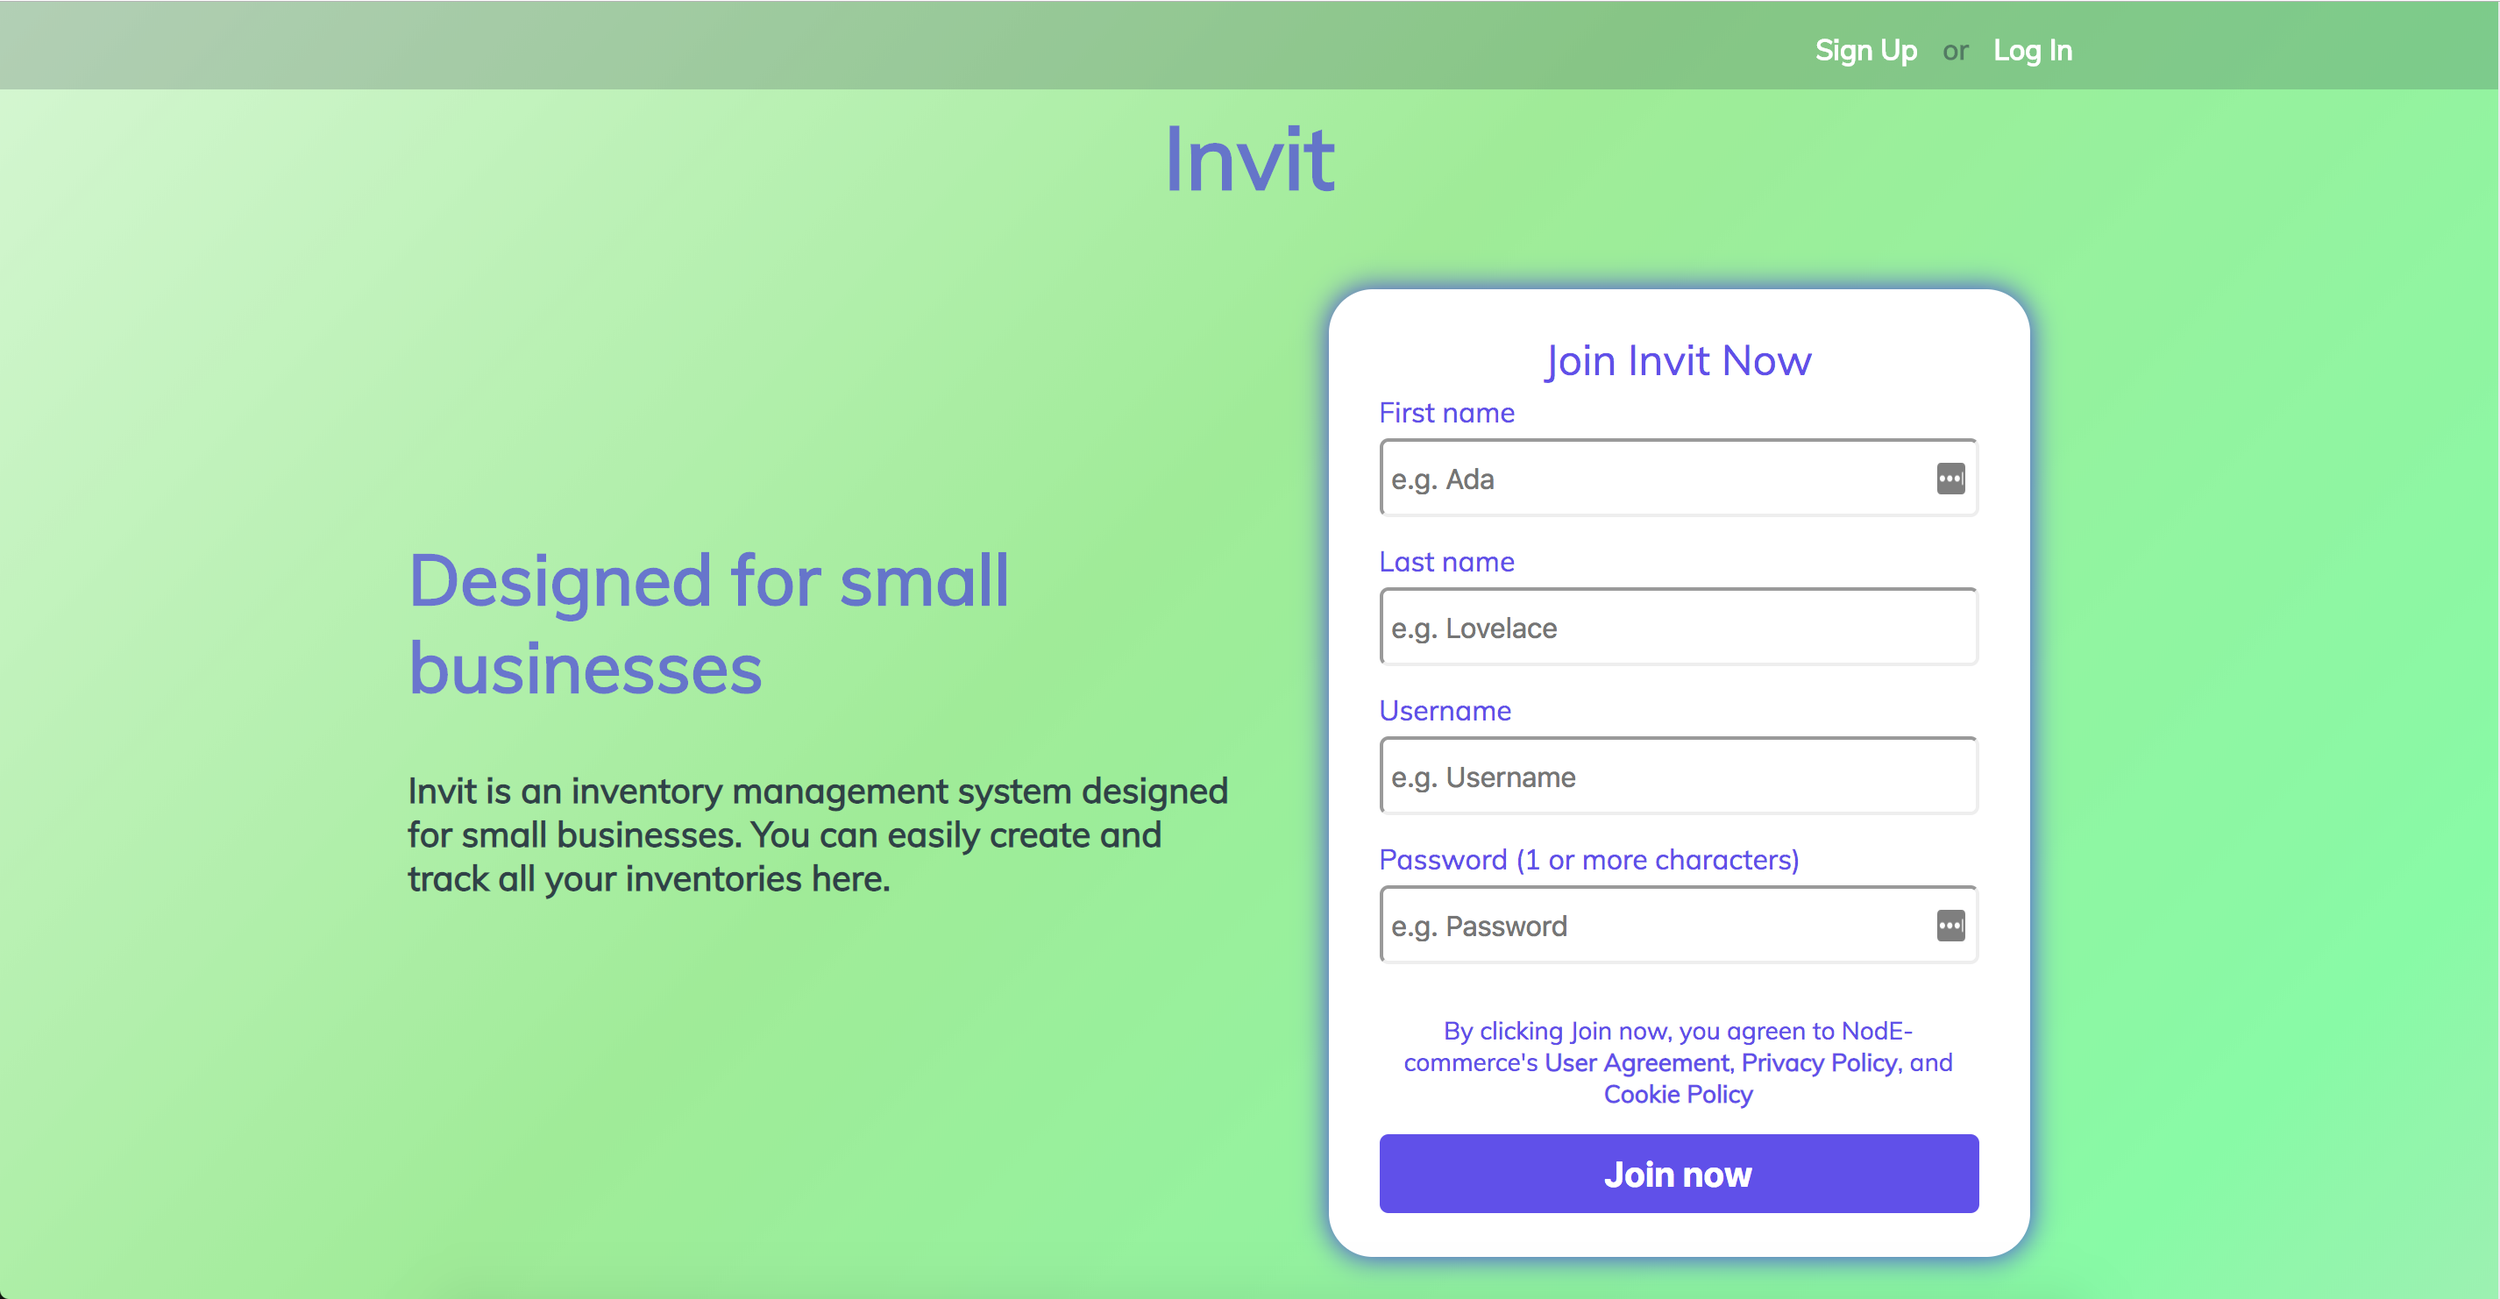
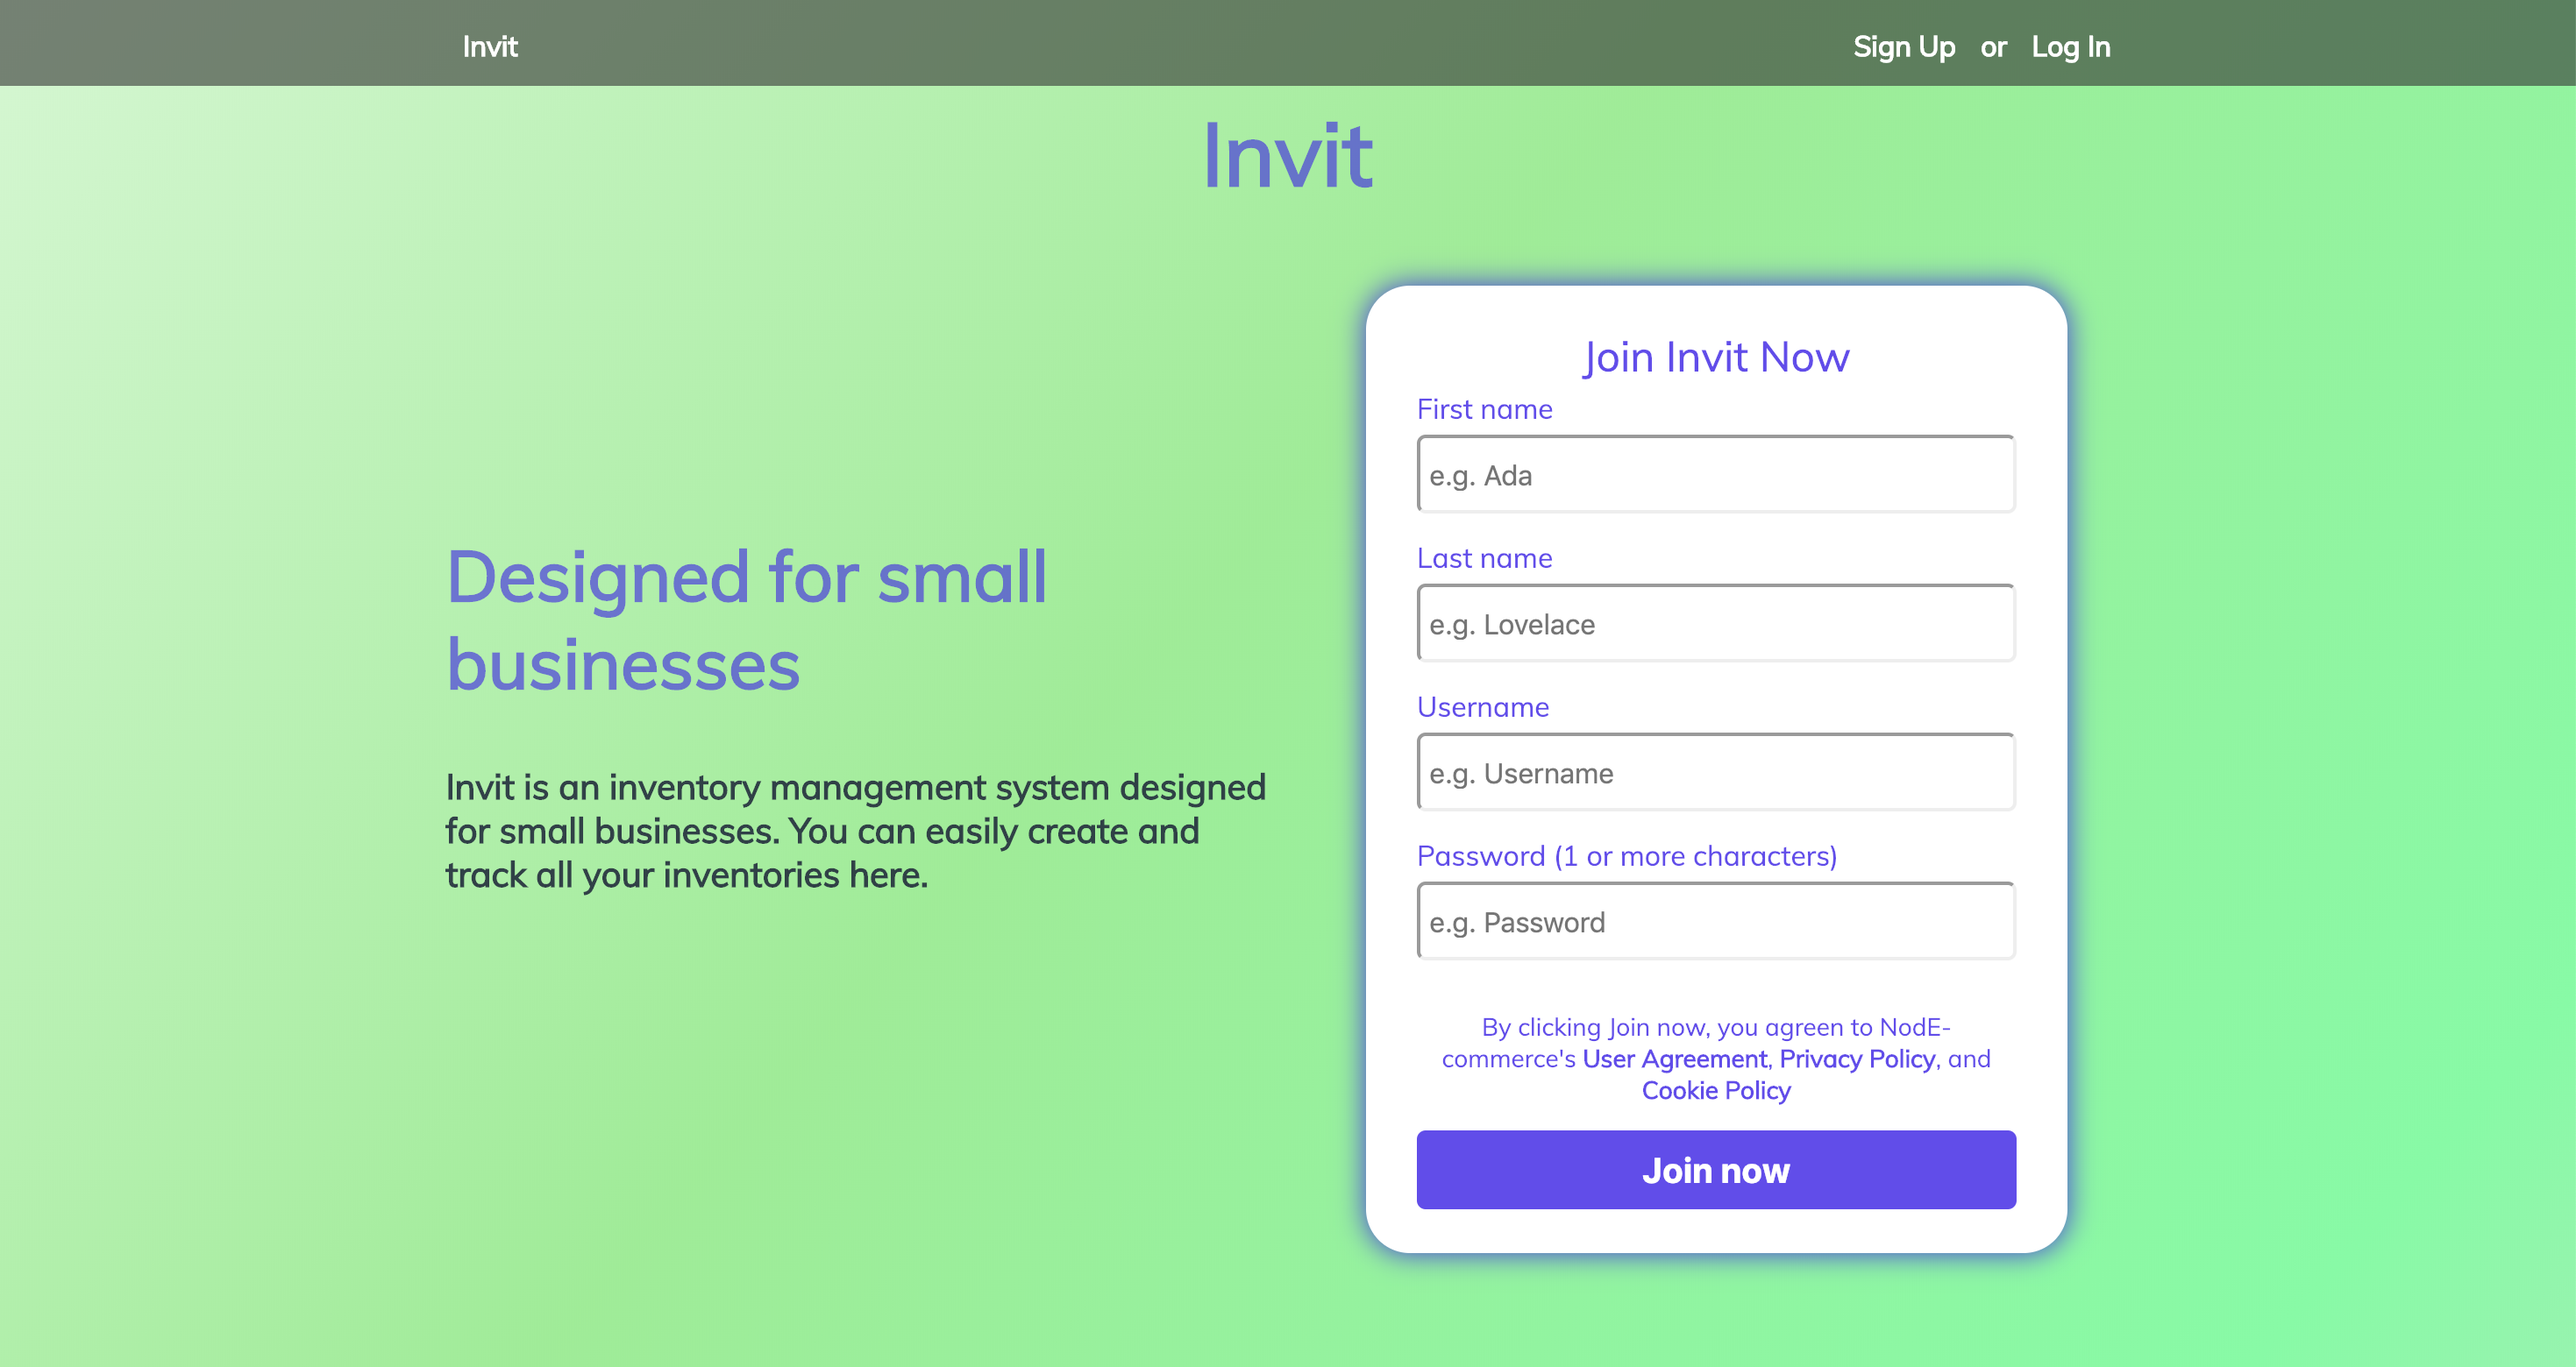
updated png and imgs

Changed region(s): [[0.4993, 0.1862, 0.8426, 0.9933], [0.0, 0.0, 1.0, 1.0], [0.156, 0.4035, 0.4993, 0.6829]]

diff --git a/index.html b/index.html
@@ -33,7 +33,7 @@
                                 <p class="name">MARTIN TIRTAWISATA</p>
                                 <p class="headline">FULL STACK DEVELOPER</p>
                             </div>
-                            <ul class="nav arsenal-font">
+                            <ul class="nav">
                                 <a href="#bio"><li>BIO</li></a>
                                 <a href="#projects"><li>PROJECTS</li></a>
                                 <a href="#contact-form"><li>CONTACT ME</li></a>
@@ -52,6 +52,7 @@
             </div>
             <!--  -->
         </div>
+        <br>
         <hr>
         <!-- Bio -->
         <div class="row">
@@ -66,7 +67,7 @@
                                 I love coding because it enables me to express and bring my creative ideas to life while also teaching me how to think critically when solving problems. 
                             </p> 
                             <p>
-                                When I'm not coding, I'm often found playing League of Legends, playing basketball with friends, reading books, or learning a new skill that interests me.
+                                When I'm not coding, I'm often found playing League of Legends, playing basketball with friends, reading books, or learning new skills that interest me.
                                 I'm a lifelong learner who believes in continuous improvement and deliberate practice. 
                                 I get along well with people and enjoys punny jokes! 
                             </p>
@@ -76,6 +77,7 @@
                 </div>  
             </div>
         </div>
+        <br>
         <hr>
         <!-- Projects -->
         <div class="row">            
@@ -83,14 +85,14 @@
             <div id="projects" class="col-12">
                 <h1 class="project-headline">MIND-BLOWING PROJECTS</h1>
                 <section>
-                    <div data-aos="zoom-in-down">
+                    <div data-aos="zoom-in">
                         <div class="image-section">
                             <a href="https://martintirtawisata.github.io/PlanIt-GoogleMapsAPI/" target="_blank">
                                 <img src="./img/PlanIt.png" alt="Plan it screenshot">
                             </a>
                         </div>
                     </div>
-                    <div data-aos="zoom-in-up" class="desc-section">
+                    <div data-aos="zoom-in" class="desc-section">
                         <div class="desc-wrapper map-location">
                             <h1 class="white">PlanIt</h1>
                             <p class="white">PlanIt is a simplified mapping system that uses Google Maps API that immediately calculates distances for multiple pinpoint destinations.</p>
@@ -110,13 +112,13 @@
             <div class="col-12">
                 <section>
                     <div class="image-section">
-                        <div data-aos="zoom-in-down">
-                            <a href="https://pure-earth-57522.herokuapp.com/" target="_blank">
+                        <div data-aos="zoom-in">
+                            <a href="http://www.invit.live/" target="_blank">
                                 <img src="./img/invit.png" alt="Invit landing page">
                             </a>
                         </div>
                     </div>
-                    <div data-aos="zoom-in-up" class="desc-section">
+                    <div data-aos="zoom-in" class="desc-section">
                         <div class="desc-wrapper invit-ims">
                             <h1 class="white">Invit</h1>
                             <p class="white">Invit is a minimalist Inventory Management Systems designed for personal and small business's needs. It allows you to easily create and track all your products with simplicity and no hassle.</p>
@@ -135,20 +137,20 @@
             <div class="col-12">
                 <section>
                     <div class="image-section">
-                        <div data-aos="zoom-in-down">
-                            <a href="https://hidden-shelf-59966.herokuapp.com/" target="_blank">
+                        <div data-aos="zoom-in">
+                            <a href="http://www.coteam.live/" target="_blank">
                                 <img src="./img/coteam.png" alt="Coteam landing page">
                             </a>
                         </div>           
                     </div>
-                    <div data-aos="zoom-in-up" class="desc-section">
+                    <div data-aos="zoom-in" class="desc-section">
                         <div class="desc-wrapper coteam-img">
                             <h1 class="white">Coteam</h1>
                             <p class="white">Coteam is a platform that allows users to create a social profile to share with their team to facilitate a better team engagement and environment.</p>
                             <p class="white"><span class="tech-used">Tech Used:</span> HTML, CSS, JavaScript, <span class="bold">React.js</span>, <span class="bold">Redux</span>, NodeJS, Express, MongoDB, mLAB, Mongoose, PassportJS, JWT, TravisCI, Heroku, Mocha & Chai </p> 
                             <a class="github-link" target="_blank" href="https://github.com/MartinTirtawisata/coteam-client">
                                 <div class="link-wrapper">
-                                    <p>View Coteam React Client Github repository</p>
+                                    <p>View Coteam React Github repository</p>
                                 </div>
                             </a>
                             <a class="github-link" target="_blank" href="https://github.com/MartinTirtawisata/coteam-api">

diff --git a/index.css b/index.css
@@ -10,9 +10,6 @@ body{
 }
 
 /* All-around uses */
-.arsenal-font {
-    font-family: 'Arsenal', sans-serif;
-}
 
 img {
     height: 100%;
@@ -24,10 +21,13 @@ h1 {
     text-align: center;
 }
 
-p {
-    font-family: 'Barlow Semi Condensed', sans-serif;
+p, li {
+    font-family: 'Arsenal', sans-serif;
     color: rgb(51,51,51);
     word-break: break-word;
+    letter-spacing: 1.15px;
+    font-weight: 600;
+    line-height: 30px;
 }
 
 hr {
@@ -86,11 +86,11 @@ li {
     margin: 5px 8px;
     color: white;
     font-size: 16px;
-    transition: transform .4s;
+    transition: transform .5s;
 }
 
 li:hover {
-    transform: scale(1.1);
+    transform: scale(1.18);
     
 }
 
@@ -103,7 +103,7 @@ li:active{
     font-family: 'Barlow Semi Condensed', sans-serif;
     font-size: 68px;
     font-style: italic;
-    font-weight: 800;
+    font-weight: 900;
     line-height: 1.06;
     letter-spacing: 1.9px;
 }
@@ -143,13 +143,13 @@ section {
 }
 
 .image-section{
-    max-width: 900px;
-    margin: 0 auto;
-    transition: transform .4s;
+    max-width: 800px;
+    margin: 25px auto;
+    transition: transform .5s;
 }
 
 .image-section:hover {
-    transform: scale(1.02)
+    transform: scale(1.05)
 }
 
 img {
@@ -199,10 +199,13 @@ img {
 .link-wrapper {
     border-radius: 5px;
     background-color: white;
-    width: 80%;
+    width: 100%;
     margin: auto;
-   
-    
+    transition: transform .5s;
+}
+
+.link-wrapper:hover {
+    transform: scale(1.05);
 }
 
 .github-link {
@@ -212,13 +215,10 @@ img {
 .link-wrapper > p{
     color: #151024;
     font-weight: bold;
-    transition: transform .4s;
     padding: 15px;
 }
 
-.link-wrapper > p:hover {
-    transform: scale(1.04);
-}
+
 /* ================== */
 
 /* Contact Form */
@@ -232,6 +232,7 @@ img {
     text-align: center;
     margin: 5px auto;
 }
+
 /* ========================= */
 
 /* Footer */
